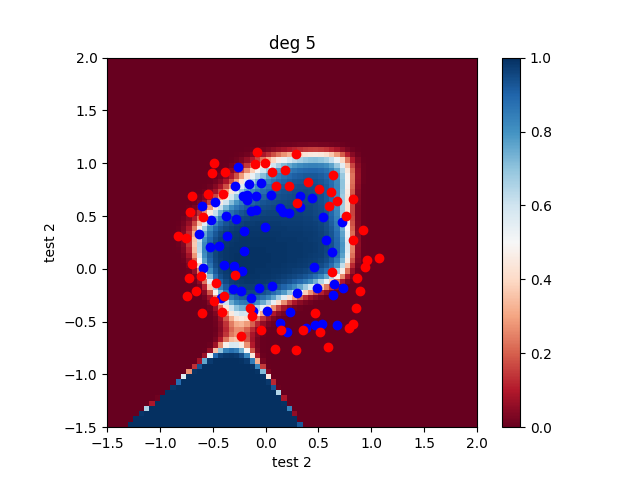
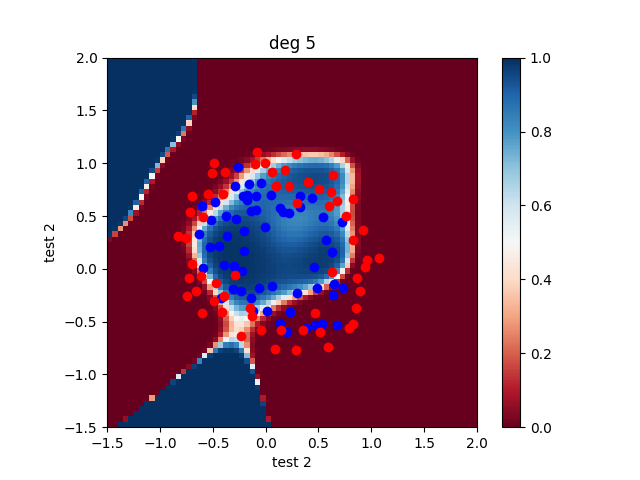
moon

diff --git a/algorithms/Newton.h b/algorithms/Newton.h
@@ -1,0 +1,71 @@
+#include "base.h"
+
+void newton(const mat&    X,
+            const mat&    y,
+            mat&    parameters,
+            double  computeCost(const mat& X, const mat& y, const mat& parameters),
+            mat  computeGradient(const mat& X, const mat& y, const mat& parameters),
+            mat  computeHessian(const mat& X, const mat& y, const mat& parameters),
+            string file_name = "temp",
+            double tol = 1e-10)
+{
+	mat _parameters;
+
+	int it = 0;
+	int m, n;
+	m = y.n_rows;
+	n = X.n_cols;
+
+	parameters.reshape(n, 1);
+	parameters.randu();
+
+	mat gradient(n, 1), error;
+	gradient.ones();
+
+	vector<double> training_error_history ;
+	do
+	{
+		it++; _parameters = parameters;
+
+		gradient = computeGradient(X, y, parameters) ;
+
+
+
+		parameters = parameters -  inv(computeHessian(X, y, parameters))*gradient;
+
+		error = computeCost(X, y, parameters);
+
+
+		error.print("training error (" + to_string(it) + "): ");
+
+
+		training_error_history.push_back(error[0]);
+
+
+		if ( kbhit() ) {
+
+			// Stores the pressed key in ch
+			char ch = getch();
+			// Terminates the loop
+			// when escape is pressed
+			if (int(ch) == 27)
+				break;
+
+
+		}
+
+	} while (norm(parameters - _parameters) > tol );
+
+	ofstream coutput_file("costs/training-error_" + file_name);
+	for (const auto &e : training_error_history) coutput_file << e << " ";
+
+
+	ofstream Woutput_file("W/" + file_name);
+	for (const auto &e : parameters) Woutput_file << e << " ";
+
+	cout << "END" << endl;
+
+}
+
+
+

diff --git a/main4.1_newton.cpp b/main4.1_newton.cpp
@@ -1,0 +1,64 @@
+// Algoruthm :   Logistic Regression with Nonlinear Transformation
+// Data : microchips.csv
+
+#include <iostream>
+#include <vector>
+#include "algorithms/Newton.h"
+
+using namespace std;
+
+vector<pair<int, int>> PQ(int deg)
+{
+	vector<pair<int, int>> v;
+	for (int p = 0; p <= deg; p++)
+	{
+		for (int q = 0; p + q <= deg; q++ )
+		{
+			v.push_back(make_pair(p, q));
+		}
+	}
+	return v;
+}
+
+mat transformation(mat x, int np)
+{
+	vector<pair<int, int>> pq = PQ(np);
+	int K = pq.size();
+
+	cout << "New Size : " << K << endl;
+	mat X(x.n_rows , K);
+	X.col(0).ones();
+
+	for (int i = 0; i < x.n_rows; i++)
+	{
+		for (int j = 0; j < K; j++)
+		{
+
+			pair<int, int> ppqq = pq[j];
+			int p = ppqq.first , q = ppqq.second;
+			X(i, j) = pow(x(i,1), p) * pow(x(i,2), q);
+		}
+	}
+	return X;
+}
+
+
+
+
+int main(int argc, char const *argv[])
+{
+	int np;
+	cout << "np :" << endl;
+	cin >> np;
+
+	mat X, y,theta;
+
+	csv_to_xy("data/microchips.csv", {"x", "y"}, "z", X, y);
+
+	X= transformation(X,np);
+
+	newton(X, y, theta, logisticCost, logisticGradient,logisticHessian, "Nonlinear-Q" + to_string(np)) ;
+
+	theta.print("Theta found :");
+	return 0;
+}

diff --git a/algorithms/base.h b/algorithms/base.h
@@ -58,17 +58,18 @@ mat logisticGradient(const mat& X, const mat& y, const mat& parameters)
 
 }
 
-// mat logisticHessian(const mat& X, const mat& y, const mat& parameters)
-// {
-//     int m = y.n_rows;
-//     mat D(m, m); D.zeros();
-//     for (int i = 0; i < m; i++) 
-//     {
-//         double z = as_scalar(X.row(i) * parameters);
-//         D(i, i) = ;
-//     }
-//     return X * trans(X) * phi * (1 - phi);
-// }
+mat logisticHessian(const mat& X, const mat& y, const mat& parameters)
+{
+    int m = y.n_rows;
+    mat D(m, m); D.zeros();
+    for (int i = 0; i < m; i++) 
+    {
+        double z = as_scalar(X.row(i) * parameters);
+        D(i, i) = sigmoid(-z)*(1-sigmoid(-z));
+    }
+    return trans(X) * D *X ;
+}
+
 double armijo(const mat& X, const mat& y, const mat& parameters, mat gradient, double computeCost(const mat& X, const mat& y, const mat& parameters)
              ) {
     // Armijo Hyperparameters

diff --git a/README.md b/README.md
@@ -39,16 +39,21 @@ TODO : change logistic fonction
 ## Command line
 	g++ main_exemple.cpp -o bin/exe -llapack -lblas -larmadillo
 
+
+## Regression 
+  main2.1 & main2.3 
+## Polynomial regression
+  main3
+## Logistic regression 
+  main2.2 & main4
+## Binary classification
+  main1.1 & main1.2 & main1.3
+
+
 ## Algorithms
-
 # Perceptron 
-
 # Adaline
-
 # Pocket
-
 # Gradient Descent
-
 # Gradient Descent Stochastic
-
 # Momentum
